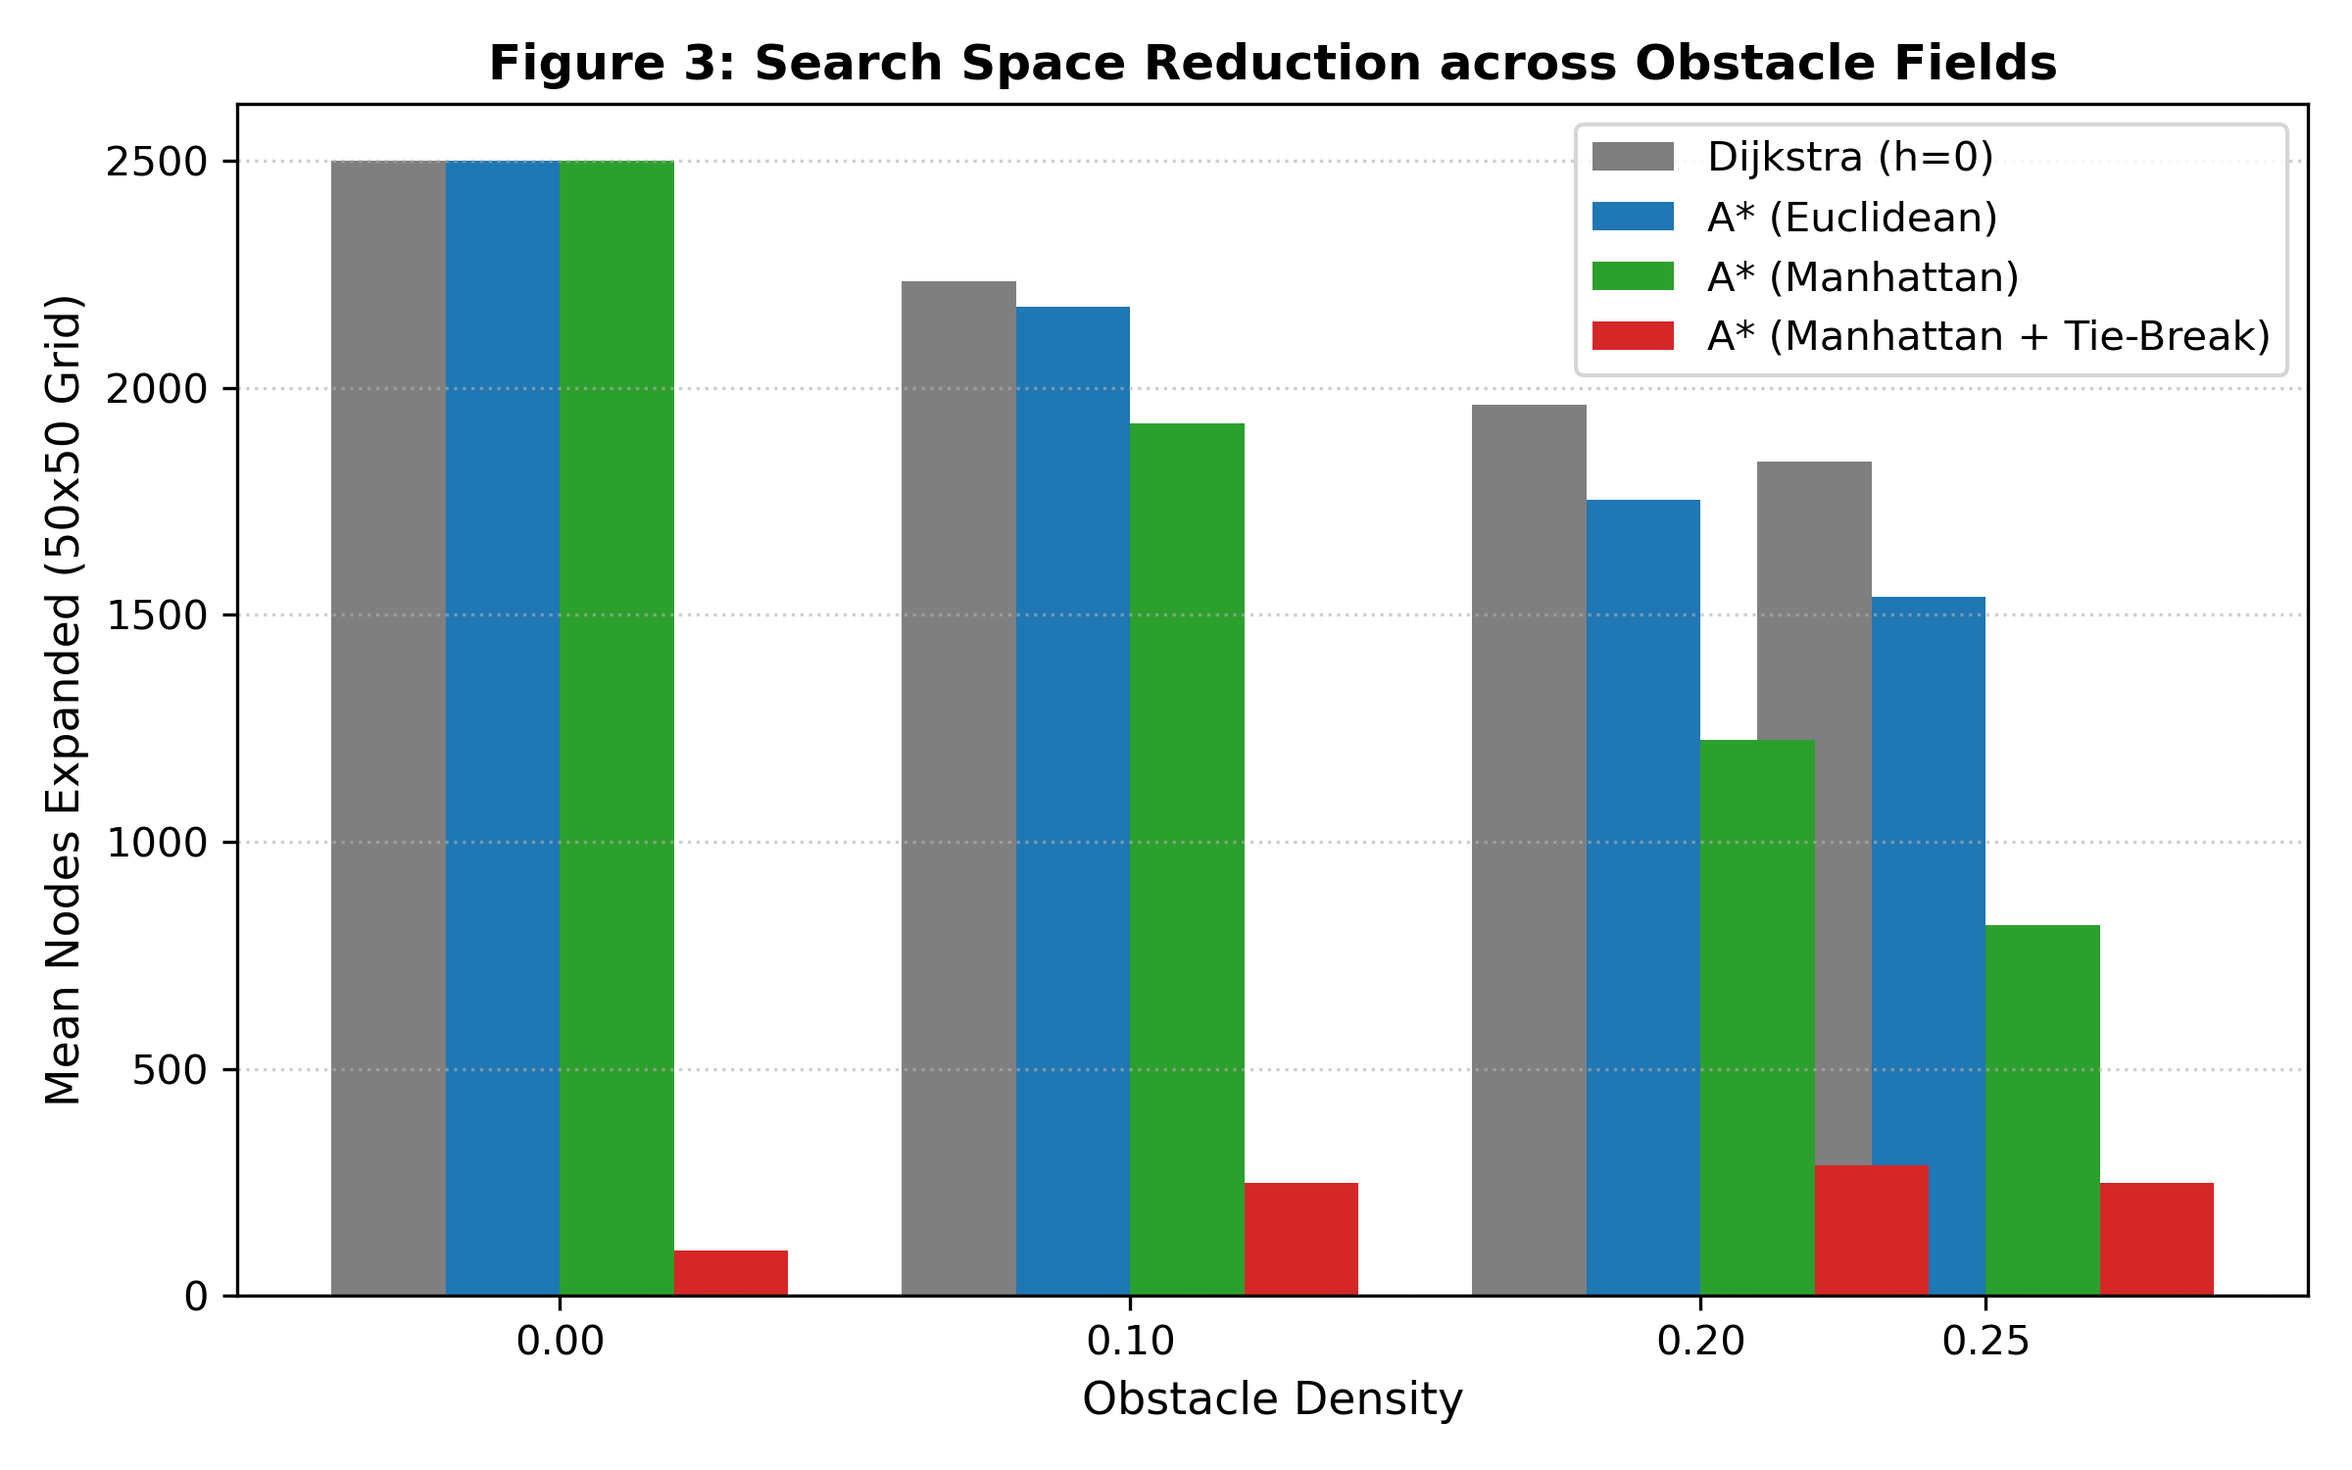
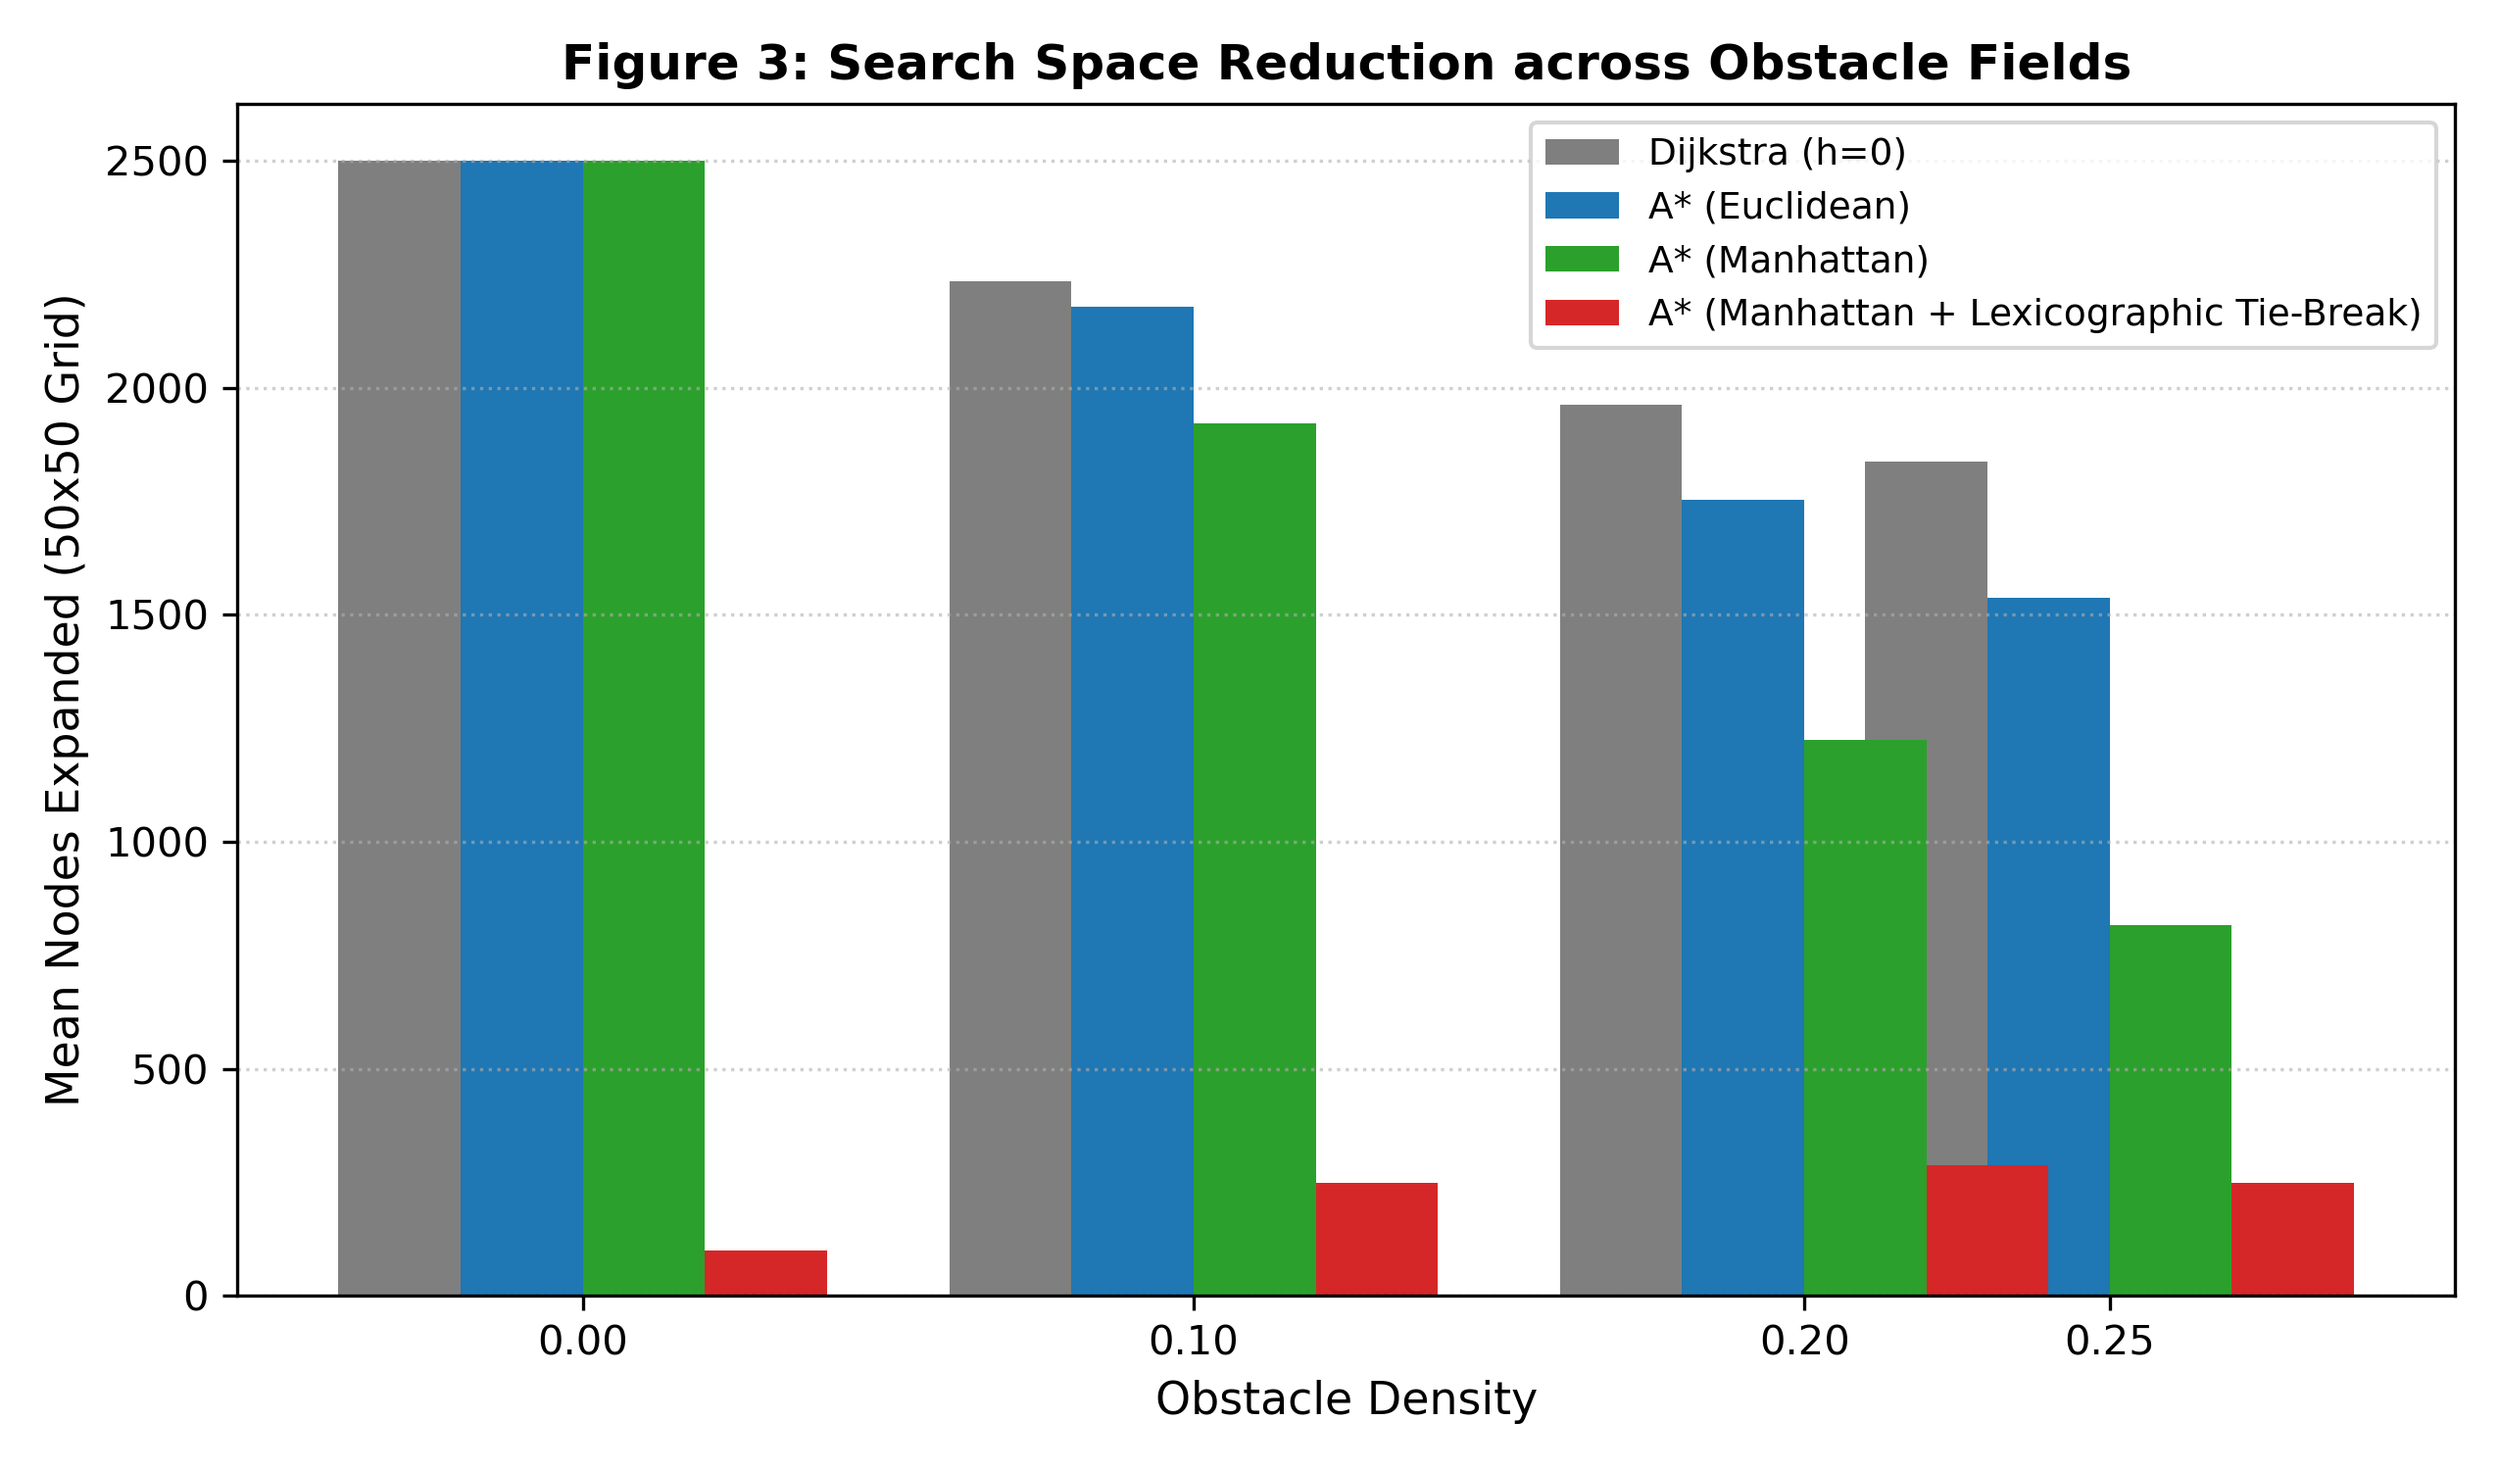
fix(search): implement true lexicographic tie-breaking in A* to strictly preserve admissibility

diff --git a/capstone/search_efficiency.py b/capstone/search_efficiency.py
@@ -7,15 +7,21 @@ Research Question:
   path optimality, and what happens when the heuristic overestimates?
 
 Theoretical Guarantees:
-  1. Dijkstra's Algorithm (h = 0):
-     Guaranteed optimal on non-negative edge weights. Explores a circular/diamond
-     wavefront of area O(V).
-  2. A* with Admissible & Consistent Heuristic (h(n) <= h*(n)):
+  1. Dijkstra Algorithm (h = 0):
+     Guaranteed optimal on non-negative edge weights. Explores a circular wavefront
+     of area O(V).
+  2. A* with Admissible and Consistent Heuristic (h(n) <= h*(n)):
      Guaranteed optimal: the first time a goal node is expanded, its path is minimal.
      Prunes the search space by focusing the expansion ellipse toward the goal.
      Since Manhattan distance h_M(u, v) >= Euclidean distance h_E(u, v) on a 4-connected grid,
      h_M strictly dominates h_E: A*(h_M) expands no more nodes than A*(h_E).
-  3. A* with Inadmissible Heuristic (weight w > 1.0, e.g., w * h_M):
+  3. Lexicographic Tie-Breaking (Preserving Admissibility):
+     On grids, many paths share identical f-scores f = g + h. Rather than inflating h
+     by a factor (1 + eps) which breaks strict admissibility (since (1 + eps)*h can exceed h*),
+     true lexicographic tie-breaking keeps f = g + h strictly unscaled, and breaks ties
+     among equal-f states by prioritizing states with smaller remaining heuristic distance h.
+     This preserves the mathematical admissibility theorem while collapsing plateau expansions.
+  4. A* with Inadmissible Heuristic (weight w > 1.0, e.g., w * h_M):
      Sacrifices the mathematical optimality guarantee. It expands significantly fewer nodes
      ("greedy search"), but risks returning suboptimal paths.
 """
@@ -60,9 +66,11 @@ def h_manhattan(a: Tuple[int, int], b: Tuple[int, int]) -> float:
 
 
 def h_manhattan_tiebreak(a: Tuple[int, int], b: Tuple[int, int]) -> float:
-    """Manhattan distance with microscopic tie-breaking factor (1 + 1e-4).
-    Still admissible for all practical purposes, but breaks plateaus toward the goal."""
-    return (1.0 + 1e-4) * float(abs(a[0] - b[0]) + abs(a[1] - b[1]))
+    """
+    Maintained for backward compatibility: pure Manhattan distance.
+    Tie-breaking is now handled lexicographically in the priority queue.
+    """
+    return float(abs(a[0] - b[0]) + abs(a[1] - b[1]))
 
 
 def h_inadmissible(a: Tuple[int, int], b: Tuple[int, int], weight: float = 1.5) -> float:
@@ -75,21 +83,29 @@ def run_astar(
     start: Tuple[int, int],
     goal: Tuple[int, int],
     heuristic_fn: Callable[[Tuple[int, int], Tuple[int, int]], float],
+    tie_break: bool = False,
 ) -> Tuple[Optional[float], int]:
     """
-    Runs A* search.
+    Runs A* search with optional lexicographic tie-breaking.
+    When tie_break is True, equal f-score states are resolved by preferring
+    the state with minimal remaining heuristic distance h. Because f = g + h
+    is strictly unmodified and h is unscaled, admissibility and optimality
+    guarantees are fully preserved.
+
     Returns: (path_length, nodes_expanded). Returns (None, nodes_expanded) if unreachable.
     """
-    counter = 0  # Tie-breaker for heap
-    pq: List[Tuple[float, float, int, Tuple[int, int]]] = []  # (f, g, count, node)
-    heapq.heappush(pq, (heuristic_fn(start, goal), 0.0, counter, start))
+    counter = 0  # Tie-breaker for heap on identical (f, secondary)
+    pq: List[Tuple[float, float, int, Tuple[int, int]]] = []  # (f, secondary_key, count, node)
+    h_start = heuristic_fn(start, goal)
+    sec_start = h_start if tie_break else 0.0
+    heapq.heappush(pq, (h_start, sec_start, counter, start))
 
     g_score: Dict[Tuple[int, int], float] = {start: 0.0}
     closed_set: Set[Tuple[int, int]] = set()
     nodes_expanded = 0
 
     while pq:
-        f, g, _, curr = heapq.heappop(pq)
+        f, _, _, curr = heapq.heappop(pq)
 
         if curr in closed_set:
             continue
@@ -97,15 +113,16 @@ def run_astar(
         nodes_expanded += 1
 
         if curr == goal:
-            return g, nodes_expanded
+            return g_score[goal], nodes_expanded
 
         for nbr in grid.neighbors(curr):
-            tentative_g = g + 1.0
+            tentative_g = g_score[curr] + 1.0
             if nbr not in g_score or tentative_g < g_score[nbr]:
                 g_score[nbr] = tentative_g
                 h_nbr = heuristic_fn(nbr, goal)
+                sec_nbr = h_nbr if tie_break else 0.0
                 counter += 1
-                heapq.heappush(pq, (tentative_g + h_nbr, tentative_g, counter, nbr))
+                heapq.heappush(pq, (tentative_g + h_nbr, sec_nbr, counter, nbr))
 
     return None, nodes_expanded
 
@@ -119,11 +136,11 @@ def run_benchmark_sweep(
     Executes a multi-parameter sweep across grid dimensions and obstacle densities.
     """
     algorithms = {
-        "Dijkstra (h=0)": h_zero,
-        "A* (Euclidean)": h_euclidean,
-        "A* (Manhattan)": h_manhattan,
-        "A* (Manhattan + Tie-Break)": h_manhattan_tiebreak,
-        "A* (Inadmissible w=1.5)": lambda a, b: h_inadmissible(a, b, weight=1.5),
+        "Dijkstra (h=0)": (h_zero, False),
+        "A* (Euclidean)": (h_euclidean, False),
+        "A* (Manhattan)": (h_manhattan, False),
+        "A* (Manhattan + Lexicographic Tie-Break)": (h_manhattan, True),
+        "A* (Inadmissible w=1.5)": (lambda a, b: h_inadmissible(a, b, weight=1.5), False),
     }
 
     results: Dict[str, Dict] = {algo: {"nodes": [], "suboptimal_count": 0, "total_valid": 0} for algo in algorithms}
@@ -143,7 +160,7 @@ def run_benchmark_sweep(
                 seed += 1
 
                 # First run Dijkstra to get ground-truth shortest path
-                opt_cost, dij_nodes = run_astar(grid, start, goal, algorithms["Dijkstra (h=0)"])
+                opt_cost, dij_nodes = run_astar(grid, start, goal, algorithms["Dijkstra (h=0)"][0], tie_break=False)
                 if opt_cost is None:
                     continue  # Unreachable configuration, discard
 
@@ -151,10 +168,10 @@ def run_benchmark_sweep(
                 nodes_by_algo["Dijkstra (h=0)"].append(dij_nodes)
                 cost_by_algo["Dijkstra (h=0)"].append(opt_cost)
 
-                for name, fn in algorithms.items():
+                for name, (fn, tb) in algorithms.items():
                     if name == "Dijkstra (h=0)":
                         continue
-                    cost, nodes = run_astar(grid, start, goal, fn)
+                    cost, nodes = run_astar(grid, start, goal, fn, tie_break=tb)
                     nodes_by_algo[name].append(nodes)
                     cost_by_algo[name].append(cost if cost is not None else float("inf"))
 
@@ -166,15 +183,17 @@ def run_benchmark_sweep(
                 "size": size,
                 "density": density,
                 "dijkstra_nodes": float(np.mean(nodes_by_algo["Dijkstra (h=0)"])),
+                "dijkstra_nodes_std": float(np.std(nodes_by_algo["Dijkstra (h=0)"])),
                 "euclidean_nodes": float(np.mean(nodes_by_algo["A* (Euclidean)"])),
                 "manhattan_nodes": float(np.mean(nodes_by_algo["A* (Manhattan)"])),
-                "tiebreak_nodes": float(np.mean(nodes_by_algo["A* (Manhattan + Tie-Break)"])),
+                "tiebreak_nodes": float(np.mean(nodes_by_algo["A* (Manhattan + Lexicographic Tie-Break)"])),
+                "tiebreak_nodes_std": float(np.std(nodes_by_algo["A* (Manhattan + Lexicographic Tie-Break)"])),
                 "inadmissible_nodes": float(np.mean(nodes_by_algo["A* (Inadmissible w=1.5)"])),
                 "manhattan_reduction_pct": float(
                     (1.0 - np.mean(nodes_by_algo["A* (Manhattan)"]) / np.mean(nodes_by_algo["Dijkstra (h=0)"])) * 100.0
                 ),
                 "tiebreak_reduction_pct": float(
-                    (1.0 - np.mean(nodes_by_algo["A* (Manhattan + Tie-Break)"]) / np.mean(nodes_by_algo["Dijkstra (h=0)"])) * 100.0
+                    (1.0 - np.mean(nodes_by_algo["A* (Manhattan + Lexicographic Tie-Break)"]) / np.mean(nodes_by_algo["Dijkstra (h=0)"])) * 100.0
                 ),
             }
             sweep_records.append(record)
@@ -202,5 +221,4 @@ if __name__ == "__main__":
     for algo, res in data["summary"].items():
         if res["total_valid"] > 0:
             rate = (res["suboptimal_count"] / res["total_valid"]) * 100.0
-            print(f"  {algo:<28}: Suboptimal paths = {res['suboptimal_count']}/{res['total_valid']} ({rate:.1f}%)")
-
+            print(f"  {algo:<40}: Suboptimal paths = {res['suboptimal_count']}/{res['total_valid']} ({rate:.1f}%)")

diff --git a/tests/test_capstone.py b/tests/test_capstone.py
@@ -9,7 +9,11 @@ from capstone.svd_investigation import svd_via_ata
 from capstone.search_efficiency import GridMap, run_astar, h_manhattan, h_zero
 from capstone.gradient_precision import MiniMLP
 from capstone.model_misspecification import generate_regime_switching_stream, run_bayesian_iid_updating
-from capstone.cross_course_synthesis import verify_discrete_vs_continuous_precision, synthesize_eigensolver_and_markov_chain
+from capstone.cross_course_synthesis import (
+    verify_discrete_vs_continuous_precision,
+    synthesize_eigensolver_and_markov_chain,
+    evaluate_computational_reliability_index,
+)
 
 
 def test_capstone_cgs_vs_mgs_loss_of_orthogonality():
@@ -58,21 +62,32 @@ def test_capstone_astar_optimality():
     start = (0, 0)
     goal = (19, 19)
 
-    dij_cost, dij_nodes = run_astar(grid, start, goal, h_zero)
-    a_cost, a_nodes = run_astar(grid, start, goal, h_manhattan)
+    dij_cost, dij_nodes = run_astar(grid, start, goal, h_zero, tie_break=False)
+    a_cost, a_nodes = run_astar(grid, start, goal, h_manhattan, tie_break=False)
+    tb_cost, tb_nodes = run_astar(grid, start, goal, h_manhattan, tie_break=True)
 
     if dij_cost is not None:
         assert np.isclose(dij_cost, a_cost)
+        assert np.isclose(dij_cost, tb_cost)
         assert a_nodes <= dij_nodes
+        assert tb_nodes <= a_nodes
 
 
 def test_capstone_cross_synthesis_discrete_precision():
     res = verify_discrete_vs_continuous_precision()
     assert res["discrete_error"] == 0.0
     assert res["float64_cancellation_error"] == 1.0
+    assert res["rsa_reconstruction_error"] == 0.0
 
 
 def test_capstone_markov_spectral_synthesis():
     res = synthesize_eigensolver_and_markov_chain()
     assert res["max_spectral_vs_empirical_gap"] < 0.02
 
+
+def test_capstone_computational_reliability_index():
+    cri_data = evaluate_computational_reliability_index()
+    assert len(cri_data) == 6
+    for domain, res in cri_data.items():
+        assert res["safe_cri"] > 0.8, f"{domain} safe CRI too low: {res['safe_cri']}"
+        assert res["fail_cri"] < 0.2, f"{domain} fail CRI too high: {res['fail_cri']}"
